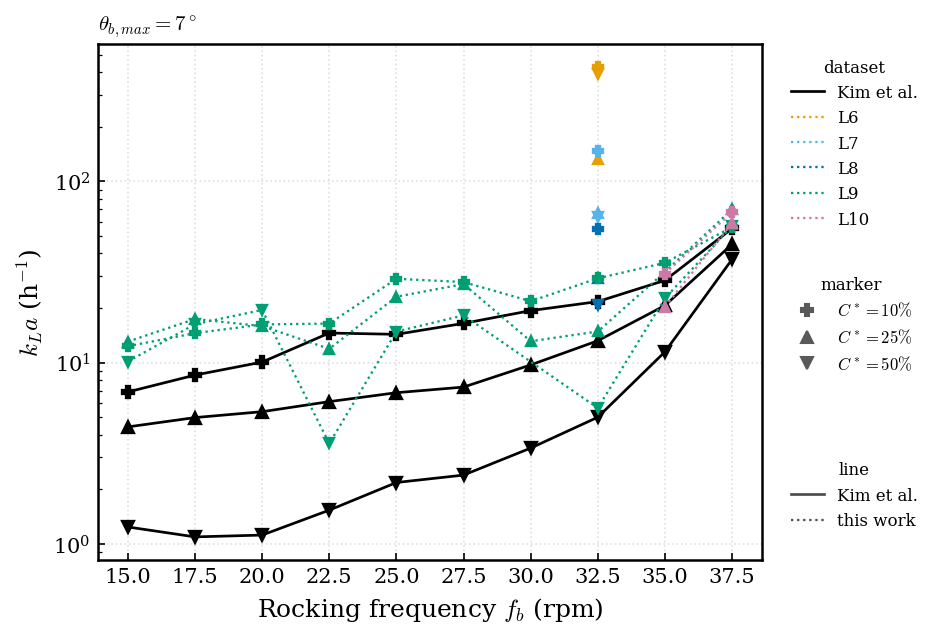
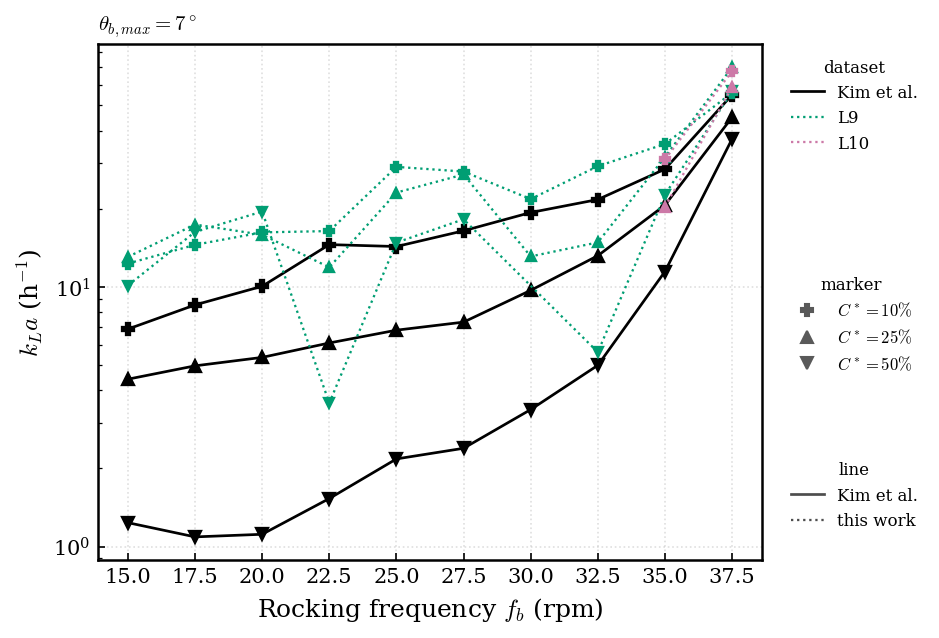
fix(tests): run the solver single-threaded in tests; OpenMP reduction order made CI compare round-off
Two identical L4 runs at OMP_NUM_THREADS=4 gave kLa_50 0.93 vs 0.45; at 1 thread
they are bit-identical (scripts/diag_omp_determinism.py). This is why
test_kla_survives_a_restart_only_when_segments_are_stitched was red on every
CI run since 2026-09-16 and green locally (1-core node).
Also commits the regenerated Fig 11 (L9/L10 only).

Claude-Session: https://claude.ai/code/session_01YAKLKMs5oUYu8r6RenvudK

diff --git a/tests/conftest.py b/tests/conftest.py
@@ -103,7 +103,13 @@ def run_bioreactor(params: dict, tmp_path: pathlib.Path, timeout: int = 300,
     for extra in (extra_files or []):
         if pathlib.Path(extra).exists():
             shutil.copy(extra, run_dir / pathlib.Path(extra).name)
-    run_env = {**os.environ, **(env or {})}
+    # Single-threaded unless the caller asks otherwise. The binary is built with
+    # -fopenmp, and OpenMP reduction order is not fixed. On a 4-core CI runner two
+    # identical L4 runs gave kLa_50 = 0.93 and 0.45, while OMP_NUM_THREADS=1 runs
+    # are bit-identical (scripts/diag_omp_determinism.py, 2026-09-30). Every test
+    # that compares two runs was therefore comparing round-off noise in CI and
+    # the physics locally, where the node has 1 core.
+    run_env = {**os.environ, "OMP_NUM_THREADS": "1", **(env or {})}
     timed_out, result = False, None
     try:
         result = subprocess.run(cmd, cwd=run_dir, capture_output=True,

diff --git a/BACKLOG.md b/BACKLOG.md
@@ -47,3 +47,5 @@ item starts, give it a diary entry; when it lands, delete it here.
 - Unsubmitted: `submit_figset.py` (Figs 2-7), `submit_fig14.py` (14/15),
   `submit_figA18.py`. Parked by request: A.16(c).
 - Convergence-aware MF: q_N = q_inf + C h_N^p per x, GP over (x, h^p). Error model = SE (+) GCI. Blocked for tau_max: R>1 at all rpm (diag_richardson_tau.py). Next: log argmax location of tau (contact-line hypothesis); run the same test on mean wall shear / <EDR> / kLa (L8/L9/L10).
+- Reproducibility of production kLa: at L4, OpenMP round-off moves kLa_50 by 2x (diag_omp_determinism.py). Test whether L7 kLa changes with MPI rank count (8 vs 16). If it does, kLa error bars need a round-off/chaos term.
+- t_end period extension int(t_end/T)+1 is decided by float jitter at exact boundaries; use floor(t_end/T + 1e-9)+1 at the next binary rebuild.
